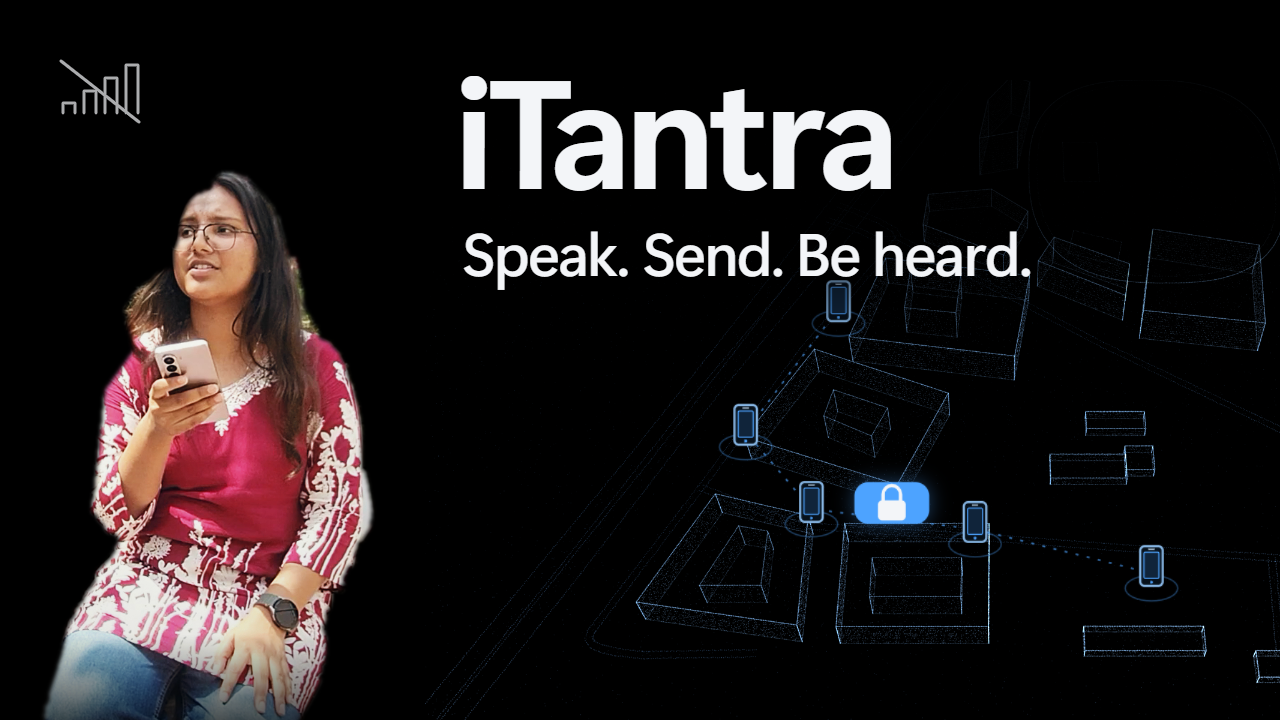
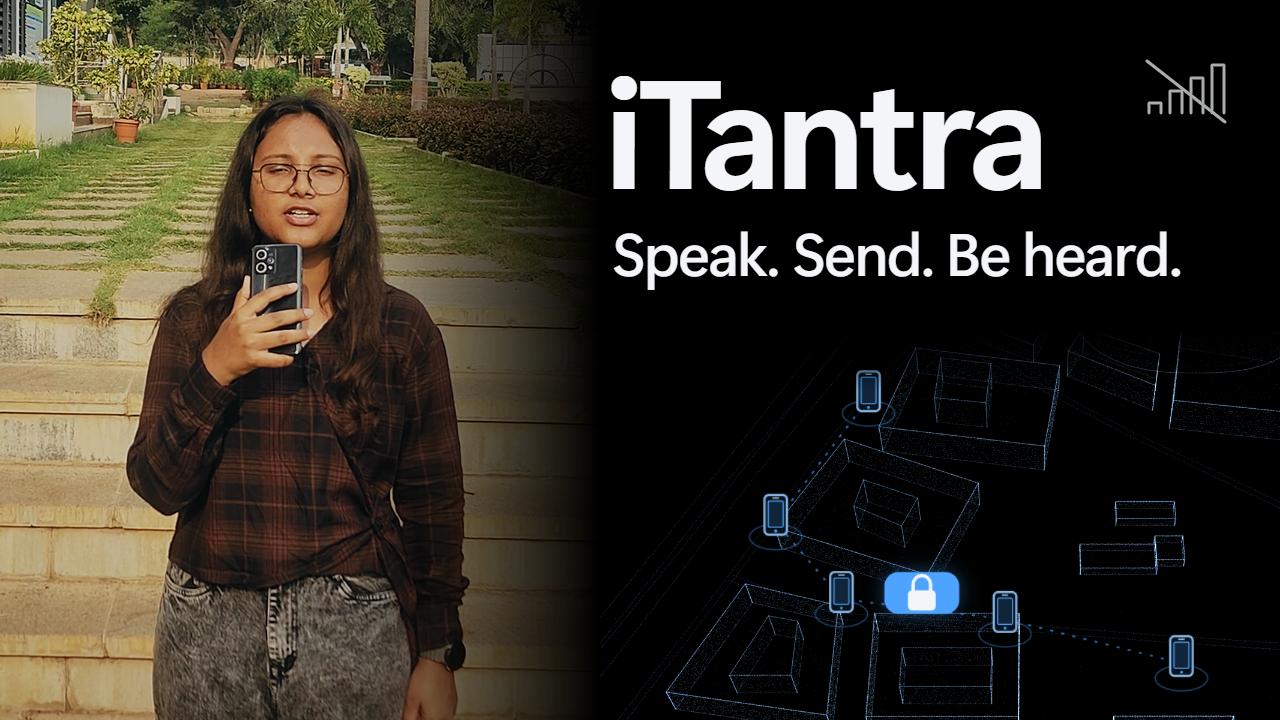
result T0053 done (codex-vivek@vivek-pc)

diff --git a/thumbnails/src/T0052/index.html b/thumbnails/src/T0052/index.html
@@ -5,28 +5,29 @@
 @font-face{font-family:SceneSans;src:local('Segoe UI Variable Display'),local('Segoe UI Variable'),local('Segoe UI');font-weight:100 900}
 *{box-sizing:border-box}html,body{width:1280px;height:720px;margin:0;overflow:hidden;background:#000;color:#f3f5f8;font-family:SceneSans,'Segoe UI',sans-serif}
 #root{position:relative;width:1280px;height:720px;overflow:hidden;background:#000}
-#map{position:absolute;left:425px;top:80px;width:1152px;height:648px;overflow:hidden}
-#map-stage{position:absolute;width:1920px;height:1080px;transform:scale(.6);transform-origin:0 0}
-.sos #map{top:180px}
+#map{position:absolute;left:455px;top:330px;width:1152px;height:390px;overflow:hidden}
+#map-stage{position:absolute;top:-160px;width:1920px;height:1080px;transform:scale(.6);transform-origin:0 0}
+.sos #map-stage{top:-60px}
 canvas,#map-art{position:absolute;inset:0;width:1920px;height:1080px}
-#map-shade{position:absolute;inset:0;background:linear-gradient(180deg,#000 0%,#000c 28%,transparent 48%);pointer-events:none}
-#person{position:absolute;left:28px;top:155px;height:615px;width:auto;mask-image:linear-gradient(180deg,#000 0%,#000 78%,transparent 100%)}
-.sos #person{left:34px;top:185px;height:580px}
-.title{position:absolute;left:454px;top:40px;font-size:154px;line-height:1.12;font-weight:650;letter-spacing:-.04em}
-.line{position:absolute;left:461px;top:218px;font-size:60px;line-height:1.1;font-weight:550;letter-spacing:-.026em;white-space:nowrap}
-#signal{position:absolute;left:54px;top:48px;width:94px;height:82px;opacity:.7}
+#map-shade{position:absolute;left:455px;top:330px;right:0;height:60px;background:linear-gradient(180deg,#000,transparent);pointer-events:none}
+#photo{position:absolute;left:0;top:0;width:600px;height:720px;overflow:hidden}
+#person{width:600px;height:720px;display:block}
+#photo-shade{position:absolute;inset:0;background:linear-gradient(90deg,rgba(0,0,0,.12) 0px,rgba(0,0,0,.12) 340px,#000 600px);pointer-events:none}
+.title{position:absolute;left:604px;top:40px;font-size:154px;line-height:1.12;font-weight:650;letter-spacing:-.04em}
+.line{position:absolute;left:611px;top:218px;font-size:60px;line-height:1.1;font-weight:550;letter-spacing:-.026em;white-space:nowrap}
+#signal{position:absolute;left:1140px;top:48px;width:94px;height:82px;opacity:.7}
 .phone{fill:#07111b;stroke:#87b6e4;stroke-width:3}.phone-screen{fill:#10243a;stroke:#4da3ff;stroke-width:1.5}
 .route{fill:none;stroke:#4da3ff;stroke-width:3;stroke-dasharray:5 14;opacity:.65}
 .pulse{fill:none;stroke:#ff4d5e;stroke-width:3;filter:drop-shadow(0 0 12px #ff4d5e);opacity:.65}
 </style></head>
 <body data-mode="1"><div id="root" data-composition-id="thumb52" data-start="0" data-duration="1" data-width="1280" data-height="720" data-fps="30">
 <div id="map"><div id="map-stage"><canvas id="campus" width="1920" height="1080"></canvas><svg id="map-art" viewBox="0 0 1920 1080" aria-hidden="true"></svg></div></div>
-<div id="map-shade"></div><img id="person" src="./relay-person.png" alt="">
+<div id="map-shade"></div><div id="photo"><img id="person" src="./relay-frame.png" alt=""><div id="photo-shade"></div></div>
 <svg id="signal" viewBox="0 0 94 82" fill="none" stroke="#f3f5f8" stroke-width="3" stroke-linecap="round" stroke-linejoin="round" aria-hidden="true"><path d="M9 65V55h12v10M30 65V43h12v22M51 65V30h12v35M72 65V17h12v48M7 13l78 61"/></svg>
 <div class="title">iTantra</div><div class="line">Speak. Send. Be heard.</div>
 </div><script>
 const mode=Number(document.body.dataset.mode), sos=mode===3;
-if(sos){document.body.classList.add('sos');document.getElementById('person').src='./sos-person.png'}
+if(sos){document.body.classList.add('sos');document.getElementById('person').src='./sos-frame.png'}
 document.querySelector('.line').textContent=mode===1?'Speak. Send. Be heard.':'No network. Still heard.';
 const renderer=Sonar(document.getElementById('campus'),GEO);
 // The film's actual campus and camera; left offset makes room for the person.

diff --git a/thumbnails/src/T0052/prepare.py b/thumbnails/src/T0052/prepare.py
@@ -1,51 +1,31 @@
-"""Extract the chosen real frames, apply GRADE_V1, and feather their silhouettes."""
+"""Extract full graded footage frames and crop with their real background."""
 import json
 import re
 import shutil
 import subprocess
 from pathlib import Path
 
-import cv2
-import numpy as np
-from PIL import Image, ImageFilter
+from PIL import Image
 
 ROOT = Path(__file__).resolve().parents[3]
-WORK = ROOT / 'local/thumbs/T0052'
+WORK = ROOT / 'local/thumbs/T0053'
 WORK.mkdir(parents=True, exist_ok=True)
 config = json.loads((ROOT / 'machine.local.json').read_text())
 grade = re.search(r'^GRADE_V1="(.*)"$', (ROOT / 'film/scene1/grades.sh').read_text(), re.M)[1]
 selections = [
-    ('relay', 'normalpart1.mp4', 8.0, [(485,123),(508,122),(531,130),(546,150),(552,178),(565,213),(568,237),(585,244),(598,276),(610,332),(603,375),(583,429),(573,453),(570,500),(560,540),(370,540),(376,495),(388,457),(397,412),(406,379),(412,329),(418,273),(438,245),(430,216),(442,191),(454,167),(458,147),(475,130)], (365,110,620,540)),
-    ('sos', 'sospart1.mp4', 9.5, [(480,181),(502,193),(519,222),(526,266),(543,280),(558,311),(561,365),(549,409),(549,496),(548,529),(546,540),(388,540),(392,490),(397,438),(398,388),(389,363),(387,335),(394,302),(406,283),(410,272),(394,278),(408,252),(421,217),(445,190),(459,185)], (375,175,570,540)),
+    ('relay', '20261002_081346_short_intro.mp4', 7.5, (1480, 600, 2680, 2040)),
+    ('sos', 'sospart1.mp4', 4.25, (650, 216, 1370, 1080)),
 ]
-for mode, name, time, points, crop in selections:
+for mode, name, time, crop in selections:
     raw = WORK / f'{mode}-graded.png'
     subprocess.run(['ffmpeg', '-hide_banner', '-loglevel', 'error', '-y', '-ss', str(time),
                     '-i', str(Path(config['footage_root']) / 'Video' / name), '-vf', grade,
                     '-frames:v', '1', '-update', '1', str(raw)], check=True)
-    frame = cv2.imread(str(raw))
-    small = cv2.resize(frame, (960, 540))
-    polygon = np.zeros((540, 960), dtype=np.uint8)
-    cv2.fillPoly(polygon, [np.array(points, dtype=np.int32)], 255)
-    inner = cv2.erode(polygon, np.ones((41, 41), np.uint8))
-    outer = cv2.dilate(polygon, np.ones((13, 13), np.uint8))
-    mask = np.full((540, 960), cv2.GC_BGD, dtype=np.uint8)
-    mask[outer > 0] = cv2.GC_PR_BGD
-    mask[polygon > 0] = cv2.GC_PR_FGD
-    mask[inner > 0] = cv2.GC_FGD
-    cv2.setRNGSeed(52)
-    cv2.grabCut(small, mask, None, np.zeros((1, 65), np.float64), np.zeros((1, 65), np.float64), 3, cv2.GC_INIT_WITH_MASK)
-    alpha = np.where((mask == cv2.GC_FGD) | (mask == cv2.GC_PR_FGD), 255, 0).astype(np.uint8)
-    alpha[polygon == 0] = 0
-    alpha = cv2.erode(alpha, np.ones((3, 3), np.uint8))
-    image = Image.open(raw).convert('RGBA')
-    matte = Image.fromarray(alpha).resize(image.size, Image.Resampling.LANCZOS).filter(ImageFilter.GaussianBlur(2.5))
-    image.putalpha(matte)
-    factor = image.width / 960
-    image.crop(tuple(round(x * factor) for x in crop)).save(WORK / f'{mode}-person.png')
-    assert Image.open(WORK / f'{mode}-person.png').getextrema()[3] == (0, 255)
+    image = Image.open(raw).convert('RGB')
+    image.crop(crop).resize((600, 720), Image.Resampling.LANCZOS).save(WORK / f'{mode}-frame.png')
+    assert Image.open(WORK / f'{mode}-frame.png').mode == 'RGB'
 
 for source in ['film/vendor/three/three.min.js', 'film/vendor/gsap/gsap.min.js',
                'film/scene2/sonar/sonar_a/geo.js', 'film/scene2/sonar/shared/sonar.js']:
     shutil.copy2(ROOT / source, WORK / Path(source).name)
-print('Prepared graded, feathered real-person frames and local sonar dependencies.')
+print('Prepared full-background footage crops with GRADE_V1 and local sonar dependencies.')

diff --git a/thumbnails/src/T0052/frames.py b/thumbnails/src/T0052/frames.py
@@ -7,18 +7,18 @@ import cv2
 from PIL import Image, ImageDraw
 
 ROOT = Path(__file__).resolve().parents[3]
-WORK = ROOT / 'local/thumbs/T0052'
+WORK = ROOT / 'local/thumbs/T0053'
 WORK.mkdir(parents=True, exist_ok=True)
 config = json.loads((ROOT / 'machine.local.json').read_text())
-names = ['20261002_081346_short_intro.mp4', 'normalpart1.mp4', 'sospart1.mp4']
+names = ['normalpart1.mp4', '20261002_081346_short_intro.mp4', 'sospart1.mp4', 'sospart2.mp4']
 all_scores = {}
 for name in names:
     capture = cv2.VideoCapture(str(Path(config['footage_root']) / 'Video' / name))
     fps = capture.get(cv2.CAP_PROP_FPS)
     duration = capture.get(cv2.CAP_PROP_FRAME_COUNT) / fps
     candidates = []
-    for half in range(2, int((duration - .5) * 2)):
-        time = half / 2
+    for quarter in range(int(duration * 4)):
+        time = quarter / 4
         filename = f'{Path(name).stem}-{time:.2f}.jpg'
         # Use the same FFmpeg timestamp seek as final extraction. OpenCV frame
         # seeking on these phone clips does not reproduce FFmpeg's selected frame.
@@ -42,6 +42,18 @@ for name in names:
         sheet.paste(image, (x, y))
         draw.text((x + 6, y + 182), f"{row['time']:.2f}s / sharpness {row['sharpness']}", fill='white')
     sheet.save(WORK / f'{Path(name).stem}-best8.png')
+    # Review the full clip chronologically: the required speaking pose takes
+    # priority over sharpness, so the highest scores alone cannot select it.
+    for start in range(0, len(candidates), 16):
+        sheet = Image.new('RGB', (1280, 800), '#080c12')
+        draw = ImageDraw.Draw(sheet)
+        for i, row in enumerate(candidates[start:start + 16]):
+            x, y = i % 4 * 320, i // 4 * 200
+            image = Image.open(WORK / row['image']).resize((320, 180), Image.Resampling.LANCZOS)
+            sheet.paste(image, (x, y))
+            draw.text((x + 6, y + 182), f"{row['time']:.2f}s / sharpness {row['sharpness']}", fill='white')
+        sheet.save(WORK / f'{Path(name).stem}-all-{start // 16 + 1}.png')
     all_scores[name] = {'best8': best, 'candidates': candidates}
+    print(f'Scored {name}: {len(candidates)} frames.', flush=True)
 (WORK / 'frame-scores.json').write_text(json.dumps(all_scores, indent=2))
-print('Scored footage and made three best-eight contact sheets in local/thumbs/T0052.')
+print('Scored complete clips and made best-eight and chronological sheets in local/thumbs/T0053.')

diff --git a/thumbnails/src/T0052/verify.py b/thumbnails/src/T0052/verify.py
@@ -9,14 +9,21 @@ for i, name in enumerate(names):
     path = ROOT / 'thumbnails' / f'{name}.png'
     image = Image.open(path)
     assert image.size == (1280, 720), (name, image.size)
+    assert image.format == 'PNG'
     assert path.stat().st_size < 20_000_000
+    # The map is below 330 px and the full-background photo ends at 600 px.
+    # This empty strip proves the tagline is clear of map/photo elements.
+    assert image.convert('RGB').crop((604, 290, 1280, 330)).getbbox() is None, name
     sheet.paste(image.convert('RGB').resize((320, 180), Image.Resampling.LANCZOS), (i * 320, 0))
-preview = ROOT / 'results/T0052/preview'
+preview = ROOT / 'results/T0053/preview'
 preview.mkdir(parents=True, exist_ok=True)
 sheet.save(preview / 'sheet.png')
 first = Image.open(ROOT / 'thumbnails' / f'{names[0]}.png').convert('RGB')
 second = Image.open(ROOT / 'thumbnails' / f'{names[1]}.png').convert('RGB')
 diff = ImageChops.difference(first, second)
 box = diff.getbbox()
-assert box is not None and box[0] >= 450 and box[1] >= 218 and box[3] <= 300, box
+assert box is not None and box[0] >= 610 and box[1] >= 218 and box[3] <= 300, box
+for name in ['relay-frame.png', 'sos-frame.png']:
+    frame = Image.open(ROOT / 'local/thumbs/T0053' / name)
+    assert frame.size == (600, 720) and frame.mode == 'RGB', name
 print('Verified three 1280x720 PNGs and generated the 320x180 side-by-side preview.')

diff --git a/thumbnails/src/T0052/build.py b/thumbnails/src/T0052/build.py
@@ -6,7 +6,7 @@ from pathlib import Path
 
 ROOT = Path(__file__).resolve().parents[3]
 SOURCE = Path(__file__).resolve().parent
-WORK = ROOT / 'local/thumbs/T0052'
+WORK = ROOT / 'local/thumbs/T0053'
 subprocess.run([sys.executable, str(SOURCE / 'prepare.py')], cwd=ROOT, check=True)
 html = (SOURCE / 'index.html').read_text(encoding='utf-8')
 names = ['v1_vachana_relay_speak', 'v2_vachana_relay_nonetwork', 'v3_vachana_sos']
@@ -14,7 +14,7 @@ for mode, name in enumerate(names, 1):
     directory = WORK / f'v{mode}'
     directory.mkdir(parents=True, exist_ok=True)
     (directory / 'index.html').write_text(html.replace('data-mode="1"', f'data-mode="{mode}"'), encoding='utf-8')
-    for asset in ['three.min.js', 'gsap.min.js', 'geo.js', 'sonar.js', 'relay-person.png', 'sos-person.png']:
+    for asset in ['three.min.js', 'gsap.min.js', 'geo.js', 'sonar.js', 'relay-frame.png', 'sos-frame.png']:
         shutil.copy2(WORK / asset, directory / asset)
     (directory / 'hyperframes.json').write_text('{"media":{"autoProxy":false}}')
     subprocess.run([shutil.which('hyperframes.cmd'), 'snapshot', str(directory), '--at', '0', '--no-end', '--describe', 'false'], cwd=ROOT, check=True)

diff --git a/results/T0053/REPORT.md b/results/T0053/REPORT.md
@@ -1,0 +1,45 @@
+---
+status: done
+id: T0053
+worker: codex-vivek
+machine: vivek-pc
+---
+
+Overwrote the three assigned 1280x720 PNGs with the requested T0052 review fixes:
+
+- `thumbnails/v1_vachana_relay_speak.png`: Vachana speaking with her phone directly below her mouth, real campus background on the left, and the existing locked blue capsule mid-hop between two relay phones on the sonar map. Text: "iTantra" and "Speak. Send. Be heard."
+- `thumbnails/v2_vachana_relay_nonetwork.png`: the same frame and composition as v1. Text: "iTantra" and "No network. Still heard."
+- `thumbnails/v3_vachana_sos.png`: Vachana focused on her phone with a serious, unsmiling expression; the existing red rings expand from one phone on the sonar map. No relay chain, hop lines, or packet. Text: "iTantra" and "No network. Still heard."
+
+Final frames:
+
+| Thumbnails | Footage | Time |
+| --- | --- | --- |
+| v1, v2 | `FOOTAGE:Video/20261002_081346_short_intro.mp4` | 7.50 s |
+| v3 | `FOOTAGE:Video/sospart1.mp4` | 4.25 s |
+
+Reviewed the complete clips at quarter-second intervals: 43 normalpart1 frames, 53 short-intro frames, 42 sospart1 frames, and 42 sospart2 frames. Scored all 180 frames using the existing Laplacian sharpness method, and personally inspected chronological sheets plus each clip's best-eight sheet. The intro selection is its highest-scoring frame (2797.04), with eyes open, mouth open mid-word, and the phone raised immediately below her mouth. The normalpart1 candidates keep the phone lower and include the rejected looking-away pose. The SOS selection scores 2083.83; expression takes priority over the sharper smiling ending frames. Sospart2 shows a different actor, so it was not used.
+
+What changed:
+
+- Removed silhouette extraction, GrabCut, alpha mattes, and the person mask entirely. Both people now come from rectangular RGB crops of full graded footage frames, retaining their real background. Each left photo is 600x720 and fades into black over 260 px, with a slight 12% darkening before the fade. No outlines or new vignette were added.
+- Applied the exact existing `GRADE_V1` before cropping. Both selected footage files are SDR BT.709.
+- Reserved the top-right for text: the photo ends at x=600, text starts at x=604/611, and all map geometry and markers are clipped below y=330. The tagline ends above that area with a clear dark gap. Repositioned the existing map without changing its camera, phone coordinates, capsule styling, or SOS origin.
+- Moved the same crossed-out signal icon to the calm top-right corner so it remains visible against the retained footage background. Its size, opacity, and line styling remain unchanged. Kept the existing SceneSans font, near-white text, 154 px title and 60 px tagline, blue capsule, and red pulse styling.
+
+Updated sources remain in `thumbnails/src/T0052/`, as requested. Rebuild from the repository root:
+
+```text
+python thumbnails/src/T0052/frames.py
+python thumbnails/src/T0052/build.py
+```
+
+The first command recreates candidate scores and review sheets; the second extracts the fixed selected frames, applies the grade, stages local film scripts, snapshots all three compositions with `hyperframes.cmd`, and verifies the PNGs. All dependencies are already local; no network resources are loaded. Footage paths resolve through `machine.local.json`.
+
+Intermediates are under `local/thumbs/T0053/`. The preview is `results/T0053/preview/sheet.png`, showing all three side by side at 320x180. The inherited output section names T0052 result/scratch paths, but this redo's explicit writes list authorizes T0053; the old result and scratch files were left untouched.
+
+Verification passed: all three final PNGs are exactly 1280x720 and under 1 MB; the footage crops are RGB with no alpha channel; v1/v2 differ only in the tagline; the strip between text and map is entirely black. Personally inspected the final small preview and full-size relay/SOS images. Titles and taglines remain readable, and no geometry touches the text. Source checks passed for network URLs, absolute paths, and email addresses. `git diff --check` passed. No film files or other repositories were edited, and no source footage was placed in public output paths.
+
+Composition intent: preserve the existing sonar visuals while making the real speaking pose and focused SOS expression clear, with a soft full-background blend and calm space around the text.
+
+TLDR: All three thumbnails rebuilt; speaking/SOS frames, full-background blending, and text clearance fixed and checked.

diff --git a/results/T0053/last-message.md b/results/T0053/last-message.md
@@ -1,0 +1,5 @@
+T0053 completed. All three thumbnails were rebuilt and verified at 1280×720, including the 320×180 readability check.
+
+[Preview sheet](<REPO>/results/T0053/preview/sheet.png) · [Report](<REPO>/results/T0053/REPORT.md)
+
+TLDR: Speaking frames, soft background blending, serious SOS expression, and text clearance fixed.
